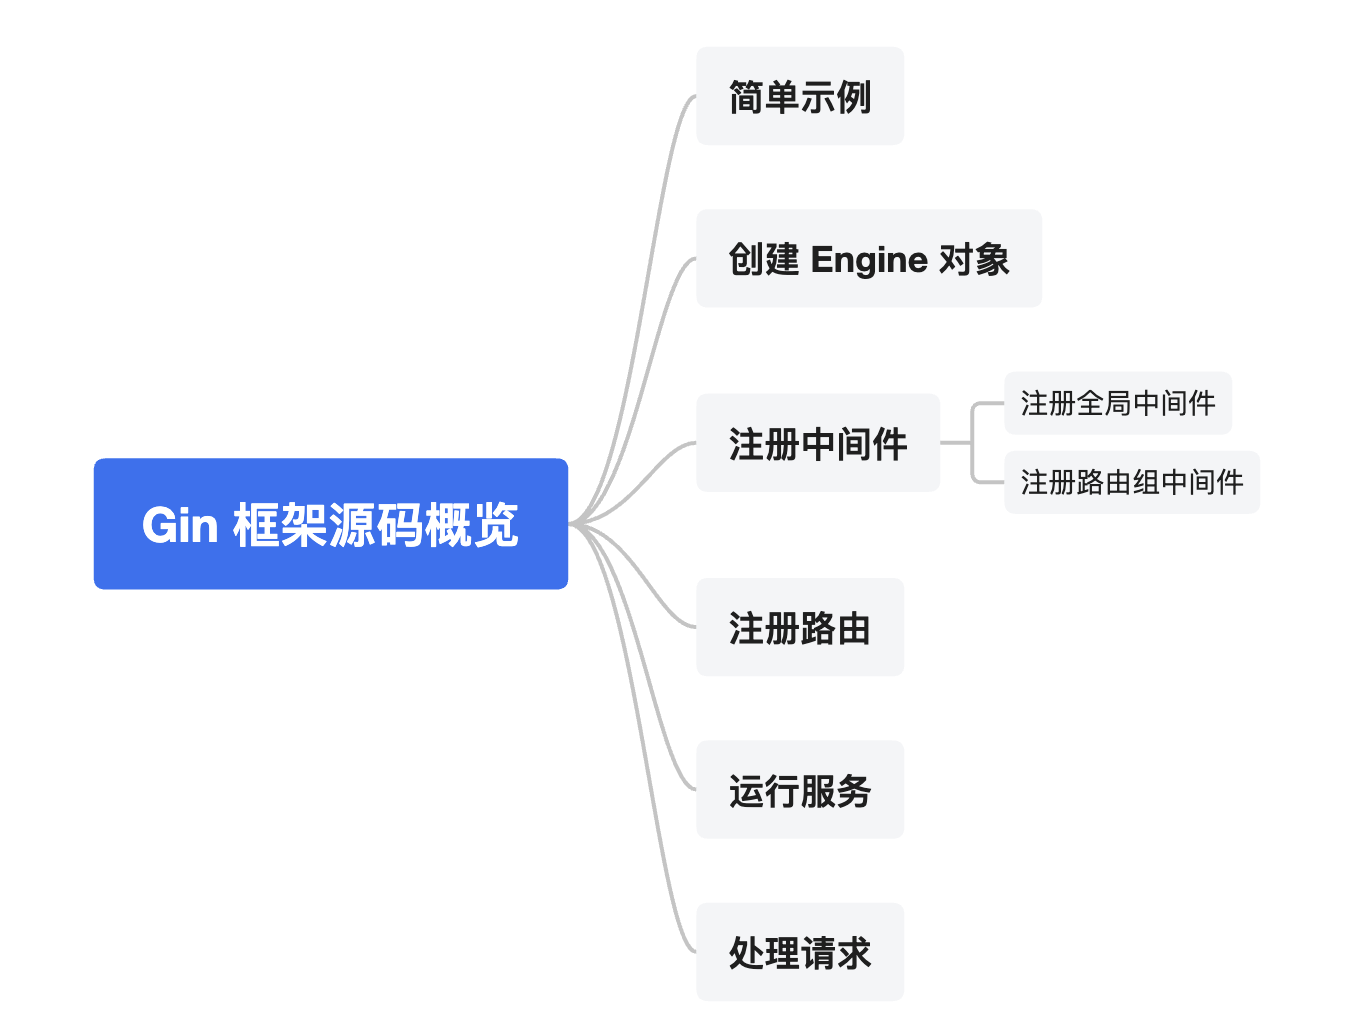
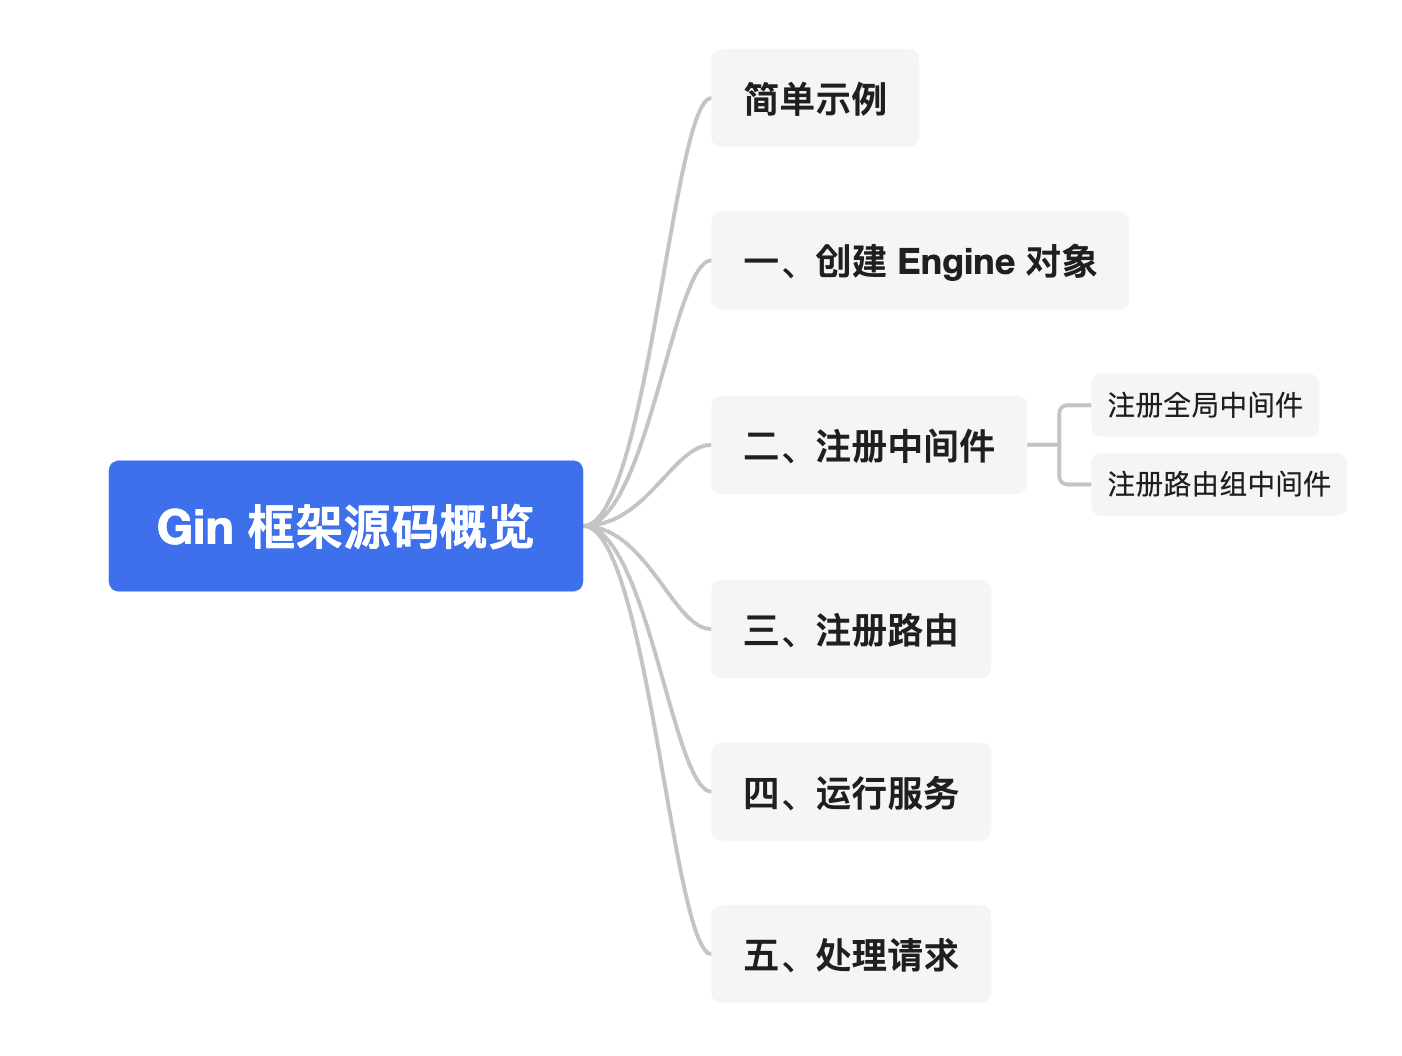
Update

Changed region(s): [[0.0614, 0.1517, 0.9518, 0.8796], [0.4912, 0.8796, 0.7061, 0.9706], [0.4912, 0.0607, 0.6447, 0.1213]]

diff --git a/_posts/2024-03-03-32-gin-source-router.md b/_posts/2024-03-03-32-gin-source-router.md
@@ -61,12 +61,12 @@ type node struct {
 
 首先我们看到 Engine 对象中会存储一个长度为 0 容量为 9 的 methodTree 数组。这个 methodTree 就是基数树，容量为 9 是因为 HTTP 方法最多 9 个。举个例子如果我们的应用只注册了 `GET`、`POST` 两种 HTTP 方法的路由，那么应用的 methodTree 数组最终长度就是 2。
 
-对于 methodTrees 数据结构，我们第一反应会想到 map，这里 Gin 选用了数组是因为长度小且有限，搜索成本不高，但能节省内存。思维扩展一下，这也告诉了我们，选择数据结构应该是结合场景和数据量一起考虑。
+对于 methodTrees 底层数据结构，我们第一反应会想到使用 map，但这里 Gin 选用了数组。主要原因这里的数组长度小且有限（最多 9），搜索成本不高，但能节省内存。思维拓展一下，这也告诉了我们，选择数据结构应该是结合场景和数据量一起考虑。
 
 其他关键信息都在 node 结构体了：
 - `path`: 路径段。比如依次插入了路径 /romane 和 /romanus ，那么会产生一个父节点，它的 path 为 /roman
 - `indices`: 是一个字符串，节点的所有子节点的首字母。比如上面例子中，父节点的 indices 为 "eu"
-- nType：是一个枚举类型 nodeType，表示该节点的类型，取值有：
+- `nType`: 是一个枚举类型 nodeType，表示该节点的类型，取值有：
     - root：根节点
     - param：参数节点，比如 :id
     - catchAll：* 开头的节点，比如 *name
@@ -166,11 +166,11 @@ func (n *node) getValue(path string, params *Params, skippedNodes *[]skippedNode
 walk: // Outer loop for walking the tree
     for {
         // 从根节点开始，逐级遍历路由树。
-        // 对于每个节点，根据节点的类型（param、catchAll、static、root）执行不同的匹配逻辑。
+        // 对于每个节点，根据节点的类型（root、param、catchAll、static）执行不同的匹配逻辑。
+        // 如果节点是 root 类型，则匹配根路径。
         // 如果节点是 param 类型，则匹配参数。
         // 如果节点是 catchAll 类型，则匹配通配符。
         // 如果节点是 static 类型，则简单比较字符串。
-        // 如果节点是 root 类型，则匹配根路径。
         // ...
     }
 }
@@ -182,6 +182,8 @@ walk: // Outer loop for walking the tree
 
 ## 总结
 
-本文介绍了 Gin 框架的路由树的数据结构基数树，并深入源码了解了一下它的具体实现。其中核心算法的实现在文件 [tree.go](https://github.com/gin-gonic/gin/blob/v1.9.1/tree.go) 中。
+本文先介绍了 Gin 框架的路由树的数据结构基数树，并深入 Gin 路由树的定义、构建和搜索源码，了解了一下 Gin 中路由树的具体实现。
+
+其中核心算法的实现在文件 [tree.go](https://github.com/gin-gonic/gin/blob/v1.9.1/tree.go) 中。
 
 正是由于基数树数据结构低内存高性能的特点，使得 Gin 能拥有高效的路由解析功能。

diff --git a/_posts/2024-03-03-31-gin-source-overview.md b/_posts/2024-03-03-31-gin-source-overview.md
@@ -229,6 +229,15 @@ Gin 运行服务是通过 net/http 库的 `ListenAndServe` 函数完成的，其
 
 Gin 的 Context 对象是 Gin 框架最重要的部分，后续的大部分 Web 功能都可以通过 Context 来完成，这个对象的源码值得单独一篇文章来讲解。
 
+另外有个有趣的地方在 Run 方法的参数处理中。我们都知道 Golang 是不支持可选参数的，它这里使用可变参数实现了可选：
+```golang
+func (engine *Engine) Run(addr ...string) (err error) {
+    address := resolveAddress(addr)
+    // ...
+}
+```
+这也是学习源码的一个好处，能学到一些方便实用的技巧。
+
 ## 五、处理请求
 
 上面运行服务成功后，后续的 HTTP 请求处理主要是在 `handleHTTPRequest` 方法中完成，我们来看一下相关源码：
@@ -286,7 +295,7 @@ func (c *Context) Next() {
 ## 总结和建议
 
 以上是 Gin 框架源码的一个简单导读，如果想继续深入，以下是一些推荐的方向：
-- Gin 的路由树实现，了解 Radix 树是什么，为什么说他很快
+- Gin 的路由树实现，了解基数树是什么，为什么说他很快
 - Gin 的重要对象的实现，例如 `Gin.Engine`、`Gin.Context`，方便了解到常见功能的实现
 - Gin 异常恢复逻辑，了解 Recover 中间件的实现
 - Gin 的优雅关停实现
